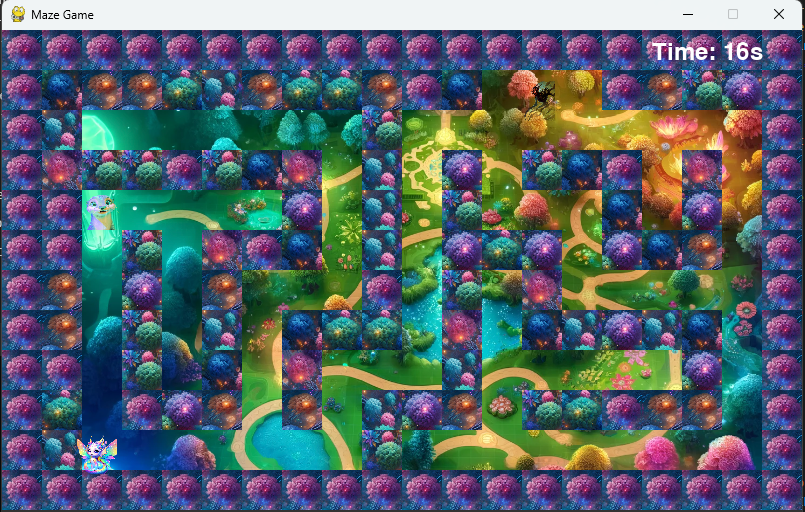
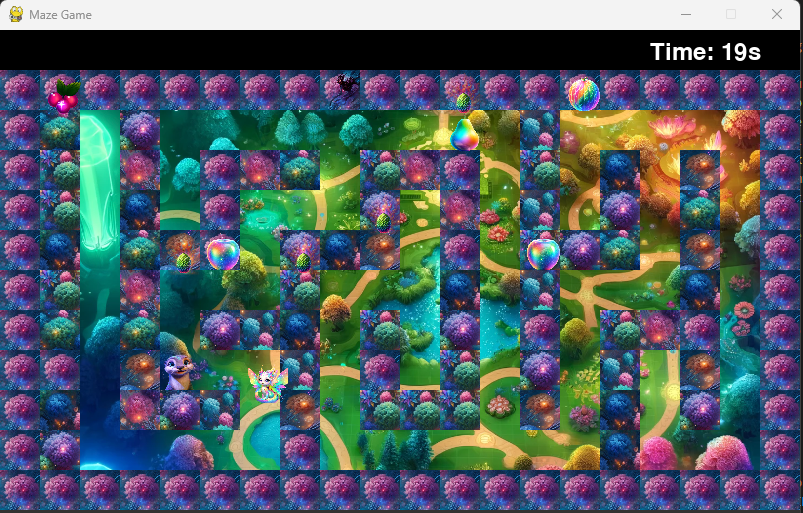
update

diff --git a/maze game.py b/maze game.py
@@ -175,6 +175,12 @@ last_fruit_spawn_time = start_time
 fruit_positions = {}
 clock = pygame.time.Clock()
 
+def find_valid_nightcrawler_position():
+    while True:
+        x, y = random.randint(1, MAZE_WIDTH - 2), random.randint(1, MAZE_HEIGHT - 2)
+        if maze[y][x] == 0 and (x, y) not in [(x, y) for x, y, _ in maze_walls]:
+            return [x, y]
+
 while running:
     for event in pygame.event.get():
         if event.type == pygame.QUIT:
@@ -200,7 +206,7 @@ while running:
         found_ripple = True
 
     if not nightcrawler_pos and time.time() >= nightcrawler_spawn_time:
-        nightcrawler_pos = [coord * TILE_SIZE for coord in find_valid_position(maze)]
+        nightcrawler_pos = [coord * TILE_SIZE for coord in find_valid_nightcrawler_position()]
         nightcrawler_target = [(ripple_pos[0] + 1) * TILE_SIZE, (ripple_pos[1] + 1) * TILE_SIZE]
 
     if nightcrawler_pos and not found_ripple and not lost_game:
